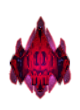
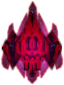
feat:explosion

diff --git a/app.js b/app.js
@@ -1,10 +1,4 @@
 
-
-
-
-
-
-
 function Sprite( filename, left, top ){             // Met fichier en image et definit sa position
     this._node = document.createElement("img");
     this._node.src = filename;
@@ -43,7 +37,6 @@ function Sprite( filename, left, top ){             // Met fichier en image et d
 
     this.left = left;
     this.top = top;
-
 }
 
 Sprite.prototype.startAnimation = function (fct, interval) {
@@ -58,19 +51,18 @@ Sprite.prototype.stopAnimation = function() {
     window.clearInterval(this._clock);
 }
 
-
-
-
+Sprite.prototype.checkCollision = function(other) {
+        return ! ((this.top + this._node.height < other.top) ||
+                    this.top > (other.top + other._node.height) ||
+                (this.left + this._node.width < other.left) ||
+                    this.left > (other.left + other._node.width));
+}
 
 let beam = new Sprite("./images/vaisseau/beam.png", 0, 0)
-let vaisseau = new Sprite("./images/vaisseau/spaceship.png", 400, 400)
-let alien1 = new Sprite("./images/alien/flash_1.png", 100, 50)
-let alien2 = new Sprite("./images/alien/flash_2.png", 300, 50)
-let alien3 = new Sprite("./images/alien/flash_3.png", 500, 50)
-let alien4 = new Sprite("./images/alien/flash_4.png", 700, 50)
-let alien5 = new Sprite("./images/alien/flash_5.png", 900, 50)
-
 beam.display = "none"
+let vaisseau = new Sprite("./images/vaisseau/spaceship.png", 700, 700)
+let explosion = []
+explosion.display = "none"
 
 document.onkeydown = function(KeyboardEvent) {
     console.log(KeyboardEvent.code); // permet de recuperer le code correspondant a la touche appuyer
@@ -87,35 +79,36 @@ document.onkeydown = function(KeyboardEvent) {
         vaisseau.left -= 10
     }
 
-    if (vaisseau.left < 0) {
+    if (vaisseau.left < 0) {                // Le vaisseau ne peut dépasser la fenetre sur la gauche
         vaisseau.left = 0;
     }
-    if (vaisseau.left > document.body.clientWidth - vaisseau._node.width) {
+    if (vaisseau.left > document.body.clientWidth - vaisseau._node.width) {     // Le vaisseau ne peut dépasser la fenetre sur la droite
         vaisseau.left = document.body.clientWidth - vaisseau._node.width;
     }
-    if (vaisseau.top < 0) {
+    if (vaisseau.top < 0) {                                                                 // Le vaisseau ne peut dépasser la fenetre sur le haut
         vaisseau.top = 0;
     }
-    if (vaisseau.top > document.body.clientHeight - vaisseau._node.height) {
+    if (vaisseau.top > document.body.clientHeight - vaisseau._node.height) {                    // Le vaisseau ne peut dépasser la fenetre sur le bas
         vaisseau.top = document.body.clientHeight - vaisseau._node.height;
     }
 
-    if (KeyboardEvent.code == "Space") {
-        if (beam.display == "none") {
+    if (KeyboardEvent.code == "Space") {                                                    // Le vaisseau tire un laser
+        if (beam.display == "none") {                                                       // Ne peut pas tirer si il y a deja un laser visible
             beam.display = "block";
             beam.left = vaisseau.left + (vaisseau._node.width - beam._node.width) / 2;
             beam.top = vaisseau.top;
-            beam.startAnimation(moveBeam, 20);
+            beam.startAnimation(moveBeam, 1);
         }
     }
 }
 
-for(let i=1; i<=5; i++) {
-    let tab = "alien" + i
-    
-    console.log(typeof tab);
+let aliens = []    // Tableau des vaisseaux aliens
 
-    tab.startAnimation(moveAlienToRight, 20);
+for(let i=1; i<=15; i++) {      // 15 vaisseaux
+    aliens[i] = new Sprite("./images/alien/flash_" + (Math.floor(Math.random()*5) + 1) +".png",+ (Math.floor(Math.random()*1000) + 1), + (Math.floor(Math.random()*200) + 1))
+    explosion[i] = new Sprite("./images/explosion/explosion"+ i +".gif", 0, 0)
+    explosion[i].display = "none"
+    aliens[i].startAnimation(moveAlienToRight, 10);
 }
 
 
@@ -123,39 +116,47 @@ function moveBeam (beam) {
     beam.top -= 10;
     if (beam.top < -40) {
         beam.stopAnimation();
-        beam.display = "none"
+        beam.display = "none" 
+    }
+
+    for(let i=1; i<=15; i++) {
+        if (aliens[i].display == "none") continue;
+        if (beam.checkCollision(aliens[i])) {
+            beam.stopAnimation();
+            beam.display = "none"
+            aliens[i].stopAnimation();
+            explosion[i].left = aliens[i].left;
+            explosion[i].top = aliens[i].top;
+            aliens[i].display = "none"
+            explosion[i].display = "block"
+            setDelay(i)
+
+        }
     }
 
 }
 
+function setDelay(i) {
+    setTimeout(function(){
+        explosion[i].display = "none";
+    }, 3000);
+  }
+
 function moveAlienToRight (alien) {
-    alien.left += 4
+    alien.left += 2
     if(alien.left > document.body.clientWidth - alien._node.width) {
         alien.top += 100;
-        alien.startAnimation(moveAlienToLeft, 20)
+        alien.startAnimation(moveAlienToLeft, 10)
     }
 }
 
 function moveAlienToLeft (alien) {
-    alien.left -= 4
+    alien.left -= 2
     if(alien.left <= 0) {
         alien.top += 100;
-        alien.startAnimation(moveAlienToRight, 20)
+        alien.startAnimation(moveAlienToRight, 10)
     }
 }
 
 
 
-
-
-
-
-
-
-
-
-// alien1.startAnimation(moveAlienToRight, 20);
-// alien2.startAnimation(moveAlienToRight, 20);
-// alien3.startAnimation(moveAlienToRight, 20);
-// alien4.startAnimation(moveAlienToRight, 20);
-// alien5.startAnimation(moveAlienToRight, 20);
